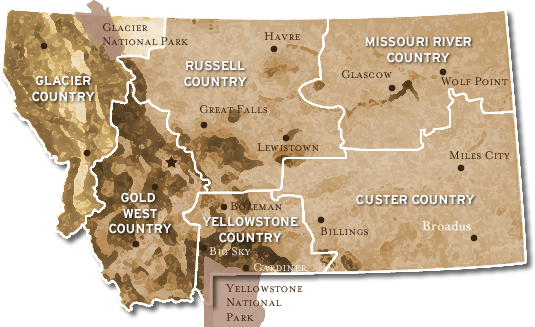
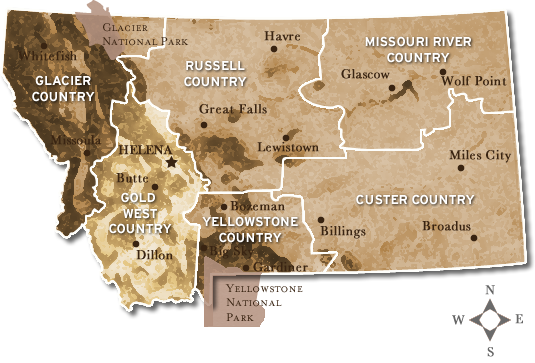
mwp

diff --git a/style.css b/style.css
@@ -91,10 +91,7 @@ sup, sub { height: 0; line-height: 1; position: relative; vertical-align: baseli
 sup { bottom: 1ex;}
 sub { top: .5ex;}
 input[type="text"], input.text, textarea { background: #fff; border: 1px solid #ccc; box-shadow: inset 1px 1px 1px rgba(0,0,0,0.1); -moz-box-shadow: inset 1px 1px 1px rgba(0,0,0,0.1); -webkit-box-shadow: inset 1px 1px 1px rgba(0,0,0,0.1); padding: 2px;}
-input.text, textarea { width: 163px; }
-span.shipping_region_name, span.shipping_country_name { background: #fff; border: 1px solid #ccc; box-shadow: inset 1px 1px 1px rgba(0,0,0,0.1); -moz-box-shadow: inset 1px 1px 1px rgba(0,0,0,0.1); -webkit-box-shadow: inset 1px 1px 1px rgba(0,0,0,0.1); padding: 2px; float: left; height: 17px; margin-bottom: 10px; width: 163px; font-weight: normal; cursor: default}
-.zip input.text {width:58px;}
-input.text.need { border-color: #f00; }
+
 a { color: #47A59F }
 
 .screen-reader-text { position: absolute; left: -9000px; }
@@ -133,11 +130,9 @@ h1.entry-title, h2.entry-title { margin-bottom: 9px }
 body.wpsc-shopping-cart .entry { margin: 17px 10px 0 0; padding: 0; }
 .entry fieldset { border: 1px solid #e7e7e7; margin: 0 0 24px 0; padding: 24px;}
 .entry fieldset legend { background: #fff; color: #000; font-weight: bold; padding: 0 24px;}
-.entry input { margin: 0 0 24px 0;}
 .entry .adjustform input, .entry .product_form input { margin-bottom: 10px; display: block; }
 .entry input.file, .entry input.button { margin-right: 24px;}
 .entry label { color: #888; font-size: 12px;}
-.entry select { margin: 0 0 24px 0;}
 .entry sup, .entry sub { font-size: 10px;}
 .entry blockquote.left { float: left; margin-left: 0; margin-right: 24px; text-align: right; width: 33%;}
 .entry blockquote.right { float: right; margin-left: 24px; margin-right: 0; text-align: left; width: 33%;}
@@ -274,8 +269,11 @@ a.button { display: block; width: 99px; height: 26px; padding-top: 5px; color: #
 #left { margin-top: 23px; padding-top: 355px; position: relative }
 #left h1 { font: 18px/22px Georgia, "Times New Roman", Times, serif; }
 
-#filter { display: block; width: 245px; height: 338px; position: absolute; top: 0; left: 6px; background: url(images/filter.png) no-repeat 0 0; padding: 0 25px 0 20px; font-family: Georgia, "Times New Roman", Times, serif }
+#filter { display: block; width: 250px; height: 338px; position: absolute; top: 0; left: 6px; background: url(images/filter.png) no-repeat 0 0; padding: 0 20px; font-family: Georgia, "Times New Roman", Times, serif }
+#filter.t2 { background-position: 100% 0; }
 #filter ul { list-style: none; margin: 0; padding: 0; }
+#filter .ftab { display: none; }
+#filter .ftab.on { display: block; }
 #filter .ftab ul li a { display: block; border-top: 1px dashed #d4d1c8; padding: 8px 0 10px; color: #4b2c13; text-decoration: none; background: url(images/filtera.gif) no-repeat 100% 50% }
 #filter .ftab ul li a.all { font-size: 10px; font-weight: bold; text-transform: uppercase; color: #a3532a; padding-top: 2px; background: none }
 #filter ul#ftabs { padding: 7px 0 40px; }
@@ -283,6 +281,10 @@ a.button { display: block; width: 99px; height: 26px; padding-top: 5px; color: #
 #ftabs li a { color: #392412; text-decoration: none; opacity: 0.6 }
 #ftabs li.on a { opacity: 1 }
 #ftabs li.first { width: 151px; }
+#fsearch .title { display: block; padding-bottom: 5px; border-bottom: 1px dashed #e7e5dd; margin-bottom: 10px; }
+#fsearch .col, #fsearch label { float: left; width: 124px; font-size: 11px; line-height:15px }
+#fsearch label input { margin: 0; }
+#fsearch .col { margin-bottom: 10px; }
 
 #plnx { position: absolute; left: 16px; bottom:31px; } 
 #plnx a { float: left; width: 188px; height: 21px; background: url(images/plnx-email.png) no-repeat 0 0; color: #fff; font: bold 10px/14px Arial, Helvetica, sans-serif; text-transform: uppercase; padding: 5px 0 0 29px; text-decoration: none; margin-top: 7px }

diff --git a/js/progo-frontend.js b/js/progo-frontend.js
@@ -83,6 +83,16 @@ jQuery(function($) {
 	});
 	
 	$('#ftabs a').click(function() {
+		var par = $(this).parent();
+		if(par.hasClass('on') == false) {
+			par.addClass('on').siblings().removeClass('on');
+			if(par.hasClass('first') ) {
+				par.parent().parent().removeClass('t2');
+			} else {
+				par.parent().parent().addClass('t2');
+			}
+			$($(this).attr('href')).addClass('on').siblings('.ftab').removeClass('on');
+		}
 		return false;
 	});
 	

diff --git a/functions.php b/functions.php
@@ -63,6 +63,7 @@ function progo_setup() {
 	add_filter('body_class','progo_bodyclasses', 100 );
 	add_filter( 'post_type_link', 'progo_realestate_links', 10, 3 );
 	add_filter("manage_edit-progo_property_columns", "progo_property_edit_columns"); 
+	add_filter( 'query_vars', 'progo_queryvars' );
 	add_filter( 'pre_get_posts', 'progo_realestate_get_posts' );
 	add_filter('the_content', 'progo_realestate_content_filter');
 	add_filter('pre_get_posts','progo_searchposts');
@@ -867,7 +868,37 @@ function progo_property_save_meta($post_id){
 	foreach( array('price','brochure','gall') as $f) {
 		$inf[$f] = absint($inf[$f]);
 	}
+	// save _progo_pricegroup for better filtering
+	$pricegroup = 0;
+	if($inf[price] < 1000000) {
+		$pricegroup = 1;
+	} elseif($inf[price] <= 3000000) {
+		$pricegroup = 2;
+	} elseif($inf[price] <= 5000000) {
+		$pricegroup = 3;
+	} elseif($inf[price] <= 10000000) {
+		$pricegroup = 4;
+	} else {
+		$pricegroup = 5;
+	}
+	update_post_meta($post_id, "_progo_pricegroup", $pricegroup);
+	
 	$inf[acres] = (float) $inf[acres];
+	// save _progo_acregroup for better filtering
+	$acregroup = 0;
+	if($inf[acres] < 10000) {
+		$acregroup = 1;
+	} elseif($inf[acres] <= 20000) {
+		$acregroup = 2;
+	} elseif($inf[acres] <= 40000) {
+		$acregroup = 3;
+	} elseif($inf[acres] <= 80000) {
+		$acregroup = 4;
+	} else {
+		$acregroup = 5;
+	}
+	update_post_meta($post_id, "_progo_acregroup", $acregroup);
+	
 	foreach( array('location','bullets') as $f) {
 		$inf[$f] = strip_tags($inf[$f]);
 	}
@@ -989,21 +1020,19 @@ function progo_realestate_links( $permalink, $post, $leavename ) {
 	return $permalink;
 }
 
+function progo_queryvars( $qvars ) {
+	$qvars[] = 'price';
+	$qvars[] = 'acres';
+	$qvars[] = 'rec';
+	return $qvars;
+}
+
 function progo_realestate_get_posts( $query ) {
+	if( is_admin() ) return $query;
+	
 	if ( isset($query->query_vars[progo_locations]) ) {
 		$query->query_vars[post_type] = 'progo_property';
 		$query->query[post_type] = 'progo_property';
-	} elseif ( strpos( $query->query_vars[pagename], 'montana-properties-for-sale/' ) === 0 ) {
-		
-		$lastslash = strrpos( $query->query_vars[pagename], '/' ) + 1;
-		$pagename = substr( $query->query_vars[pagename], $lastslash );
-		$query->query_vars[progo_property] = $query->query_vars[name] = $query->query[progo_property] = $query->query[name] = $pagename;
-		unset($query->query[pagename]);
-		$query->query_vars[pagename] = '';
-		$query->is_single = 1;
-		$query->is_page = '';
-		$query->query_vars[post_type] = $query->query[post_type] = 'progo_property';
-		
 	} elseif ( $query->query_vars[pagename] == 'montana-properties-for-sale' ) {
 		$query->query_vars[post_type] = 'progo_property';
 		$query->query_vars[meta_query] = array();
@@ -1015,12 +1044,21 @@ function progo_realestate_get_posts( $query ) {
 		$query->query = array(
 			'post_type' => 'progo_property'
 		);
+	} elseif ( strpos( $query->query_vars[pagename], 'montana-properties-for-sale/' ) === 0 ) {
+		
+		$lastslash = strrpos( $query->query_vars[pagename], '/' ) + 1;
+		$pagename = substr( $query->query_vars[pagename], $lastslash );
+		$query->query_vars[progo_property] = $query->query_vars[name] = $query->query[progo_property] = $query->query[name] = $pagename;
+		unset($query->query[pagename]);
+		$query->query_vars[pagename] = '';
+		$query->is_single = 1;
+		$query->is_page = '';
+		$query->query_vars[post_type] = $query->query[post_type] = 'progo_property';
+		
 	} elseif ( isset( $query->query_vars[progo_recfeatures] ) ) {
 		$query->query_vars[post_type] = $query->query[post_type] = 'progo_property';
 	}
-	
 	//wp_die('<pre>'.print_r($query,true).'</pre>');
-
 	return $query;
 }
 
@@ -1101,6 +1139,8 @@ function progo_excerpt( $excerpt ) {
 }
 
 function progo_listings_limit($limit){
+	if(is_admin()) return $limit;
+	
 	$perPage = 6; // The number of posts per page
 	
 	$page = $GLOBALS['wp_query']->query_vars['paged'];

diff --git a/sidebar-filter.php b/sidebar-filter.php
@@ -10,9 +10,9 @@
 <div id="filter">
 <ul id="ftabs">
 <li class="first on"><a href="#fprops">Ranches For Sale</a></li>
-<li><a href="#fsearch" title="Coming Soon">Filter Results</a></li>
+<li><a href="#fsearch">Filter Results</a></li>
 </ul>
-<div class="ftab" id="fprops">
+<div class="ftab on" id="fprops">
 <ul>
 <?php
 $feats = array(
@@ -25,10 +25,72 @@ $feats = array(
 	'horse-property-for-sale' => 'Horse Property'
 );
 foreach ( $feats as $k => $v ) {
-	echo '<li><a href="'. get_bloginfo('url') .'/properties/features/'. $k .'/">'. $v .'</a></li>';
+	echo '<li><a href="'. get_bloginfo('url') .'/montana-properties-for-sale/features/'. $k .'/">'. $v .'</a></li>';
 }
 ?>
 <li><a href="<?php bloginfo('url'); ?>/properties/" class="all">View All Properties</a></li>
 </ul>
+</div>
+<div class="ftab" id="fsearch">
+<?php global $wp_query; ?>
+<form action="<?php
+if ( is_front_page() ) {
+	echo get_bloginfo('url') .'/montana-properties-for-sale/';
+} else {
+	echo "http://" . $_SERVER['HTTP_HOST']  . $_SERVER['REQUEST_URI'];
+} ?>" method="get">
+<div class="col"><div class="title">Price</div>
+<?php
+$prices = array(
+	1 => '&lt; 1 million',
+	2 => '1-3 million',
+	3 => '3-5 million',
+	4 => '5-10 million',
+	5 => '10+ million'
+);
+foreach ( $prices as $k => $v ) {
+	echo '<label for="price['. absint($k) .']"><input type="checkbox" name="price[]" value="'. absint($k) .'"';
+	if( isset($wp_query->query_vars[price]) && in_array($k, $wp_query->query_vars[price]) ) {
+		echo ' checked="checked"';
+	}
+	echo ' /> '. esc_html($v) .'</label>';
+}
+?>
+</div>
+<div class="col"><div class="title">Acreage</div>
+<?php
+$acres = array(
+	1 => '&lt; 10k acres',
+	2 => '10k - 20k acres',
+	3 => '20k - 40k acres',
+	4 => '40k - 80k acres',
+	5 => '80k - 100k+ acres'
+);
+foreach ( $acres as $k => $v ) {
+	echo '<label for="acres['. absint($k) .']"><input type="checkbox" name="acres[]" value="'. absint($k) .'"';
+	if( isset($wp_query->query_vars[acres]) && in_array($k, $wp_query->query_vars[acres]) ) {
+		echo ' checked="checked"';
+	}
+	echo ' /> '. esc_html($v) .'</label>';
+}
+?>
+</div>
+<div class="title">Recreational Features</div>
+<?php
+$feats = get_terms( 'progo_recfeatures' ); // yay cats
+$count = 0;
+echo '<div class="col">';
+		foreach ( $feats as $f ) {
+			if($count++ == 7) echo '</div><div class="col">';
+			echo '<label for="rec['. absint($f->term_id) .']"><input type="checkbox" name="rec[]" value="'. absint($f->term_id) .'"';
+			if( isset($wp_query->query_vars[rec]) && in_array($f->term_id, $wp_query->query_vars[rec]) ) {
+				echo ' checked="checked"';
+			}
+			echo ' /> '. esc_html($f->name) .'</label>';
+		}
+		echo '</div>';
+?>
+<input type="submit" value="Search" />
+</form>
 </div>
 </div>

diff --git a/archive-progo_property.php b/archive-progo_property.php
@@ -42,7 +42,44 @@ get_sidebar('filter');
 	 * If you want to overload this in a child theme then include a file
 	 * called loop-archives.php and that will be used instead.
 	 */
-	 get_template_part( 'loop', 'properties' );
+	global $wp_query;
+	$newquery = array();
+	if( isset($wp_query->query_vars[price]) ) {
+		$newquery[meta_query] = array(
+			array(
+				'key' => '_progo_pricegroup',
+				'value' => $wp_query->query_vars[price],
+				'compare' => 'IN'
+			)
+		);
+	}
+	if( isset($wp_query->query_vars[acres]) ) {
+		if( !isset($newquery[meta_query]) ) {
+			$newquery[meta_query] = array();
+		}
+		$newquery[meta_query][] = array(
+			'key' => '_progo_acregroup',
+			'value' => $wp_query->query_vars[acres],
+			'compare' => 'IN'
+		);
+	}
+	
+	if( isset($wp_query->query_vars[rec]) ) {
+		$recs = $wp_query->query_vars[rec];
+		$feats = '';
+		for ( $i=0; $i < count($recs); $i++ ) {
+			if($i>0) $feats .= '+';
+			$term = get_term((int) $recs[$i], 'progo_recfeatures');
+			$feats .= $term->slug;
+		}
+		$newquery['progo_recfeatures'] = $feats;
+	}
+	if( count($newquery) > 0 ) {
+		$args = array_merge( $wp_query->query, $newquery );
+		query_posts($args);
+	}
+		echo '<pre style="display:none">'. print_r($wp_query,true) .'</pre>';
+	get_template_part( 'loop', 'properties' );
 ?>
 
 			</div><!-- #main -->

diff --git a/page-map.php b/page-map.php
@@ -17,7 +17,10 @@ $options = get_option('progo_options');
 <?php
 the_content();
 ?>
-<p id="map"><img src="<?php bloginfo('template_url'); ?>/images/map.png" alt="Interactive Map Coming Soon" title="Interactive Map Coming Soon" /></p>
+<p id="map"><img src="<?php bloginfo('template_url'); ?>/images/map.png" alt="Interactive Map Coming Soon" title="Interactive Map Coming Soon" width="535" height="363" border="0" usemap="#mwpMap" /></p>
+<map name="mwpMap" id="mwpMap">
+  <area shape="poly" coords="82,227,102,205,89,172,112,149,109,104,129,82,144,100,169,112,204,187,184,212,197,225,191,299,129,312,99,277" href="../montana-properties-for-sale/gold-west-country/" alt="Gold West Country" />
+</map>
 </div><!-- .entry -->
 </div><!-- #post-## -->
 <?php endwhile; ?>

diff --git a/loop-properties.php b/loop-properties.php
@@ -46,10 +46,14 @@
 <?php
 $features = get_the_terms($post->ID,'progo_recfeatures');
 foreach ( $features as $f ) {
-	echo '<li id="f'. $f->term_id .'"><a title="View '. esc_attr($f->name) .' Properties" href="'. get_bloginfo('url') .'/properties/features/'. $f->slug .'/">'. esc_html($f->name) .'</a></li>';
+	echo '<li id="f'. $f->term_id .'"><a title="View '. esc_attr($f->name) .' Properties" href="'. get_bloginfo('url') .'/montana-properties-for-sale/features/'. $f->slug .'/">'. esc_html($f->name) .'</a></li>';
 }
 ?>
 </ul>
+<?php
+$custom = get_post_meta($post->ID,'_progo_pricegroup');
+echo '<pre style="display:none">'. print_r($custom,true) .'</pre>';
+?>
 		</div><!-- #post-## -->
 <?php endwhile; // End the loop. Whew. ?>
 
